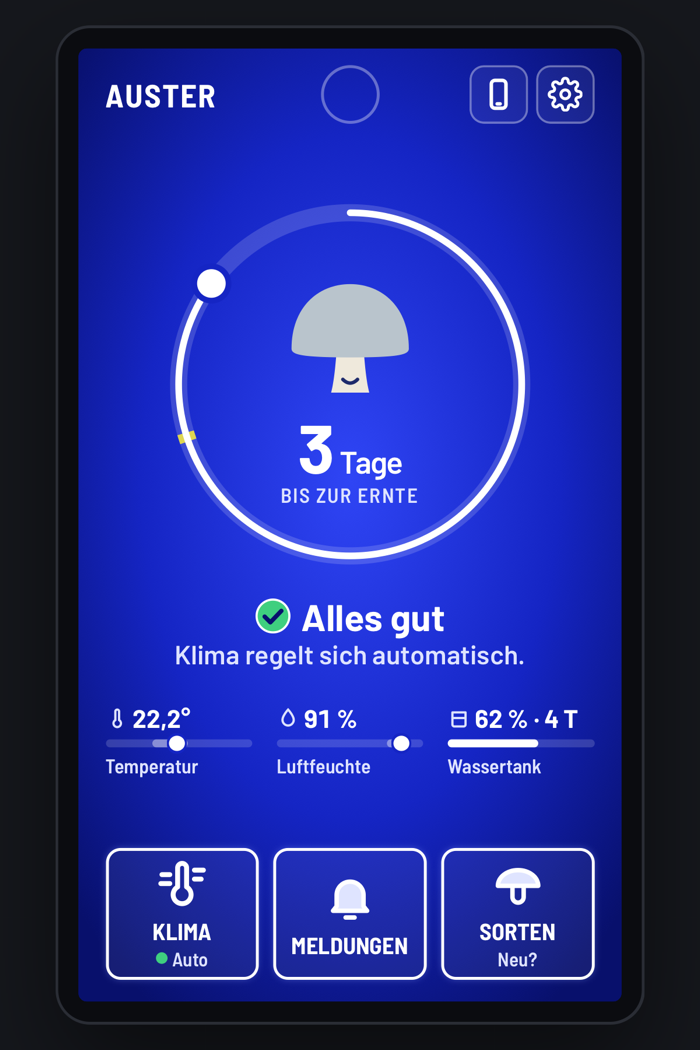
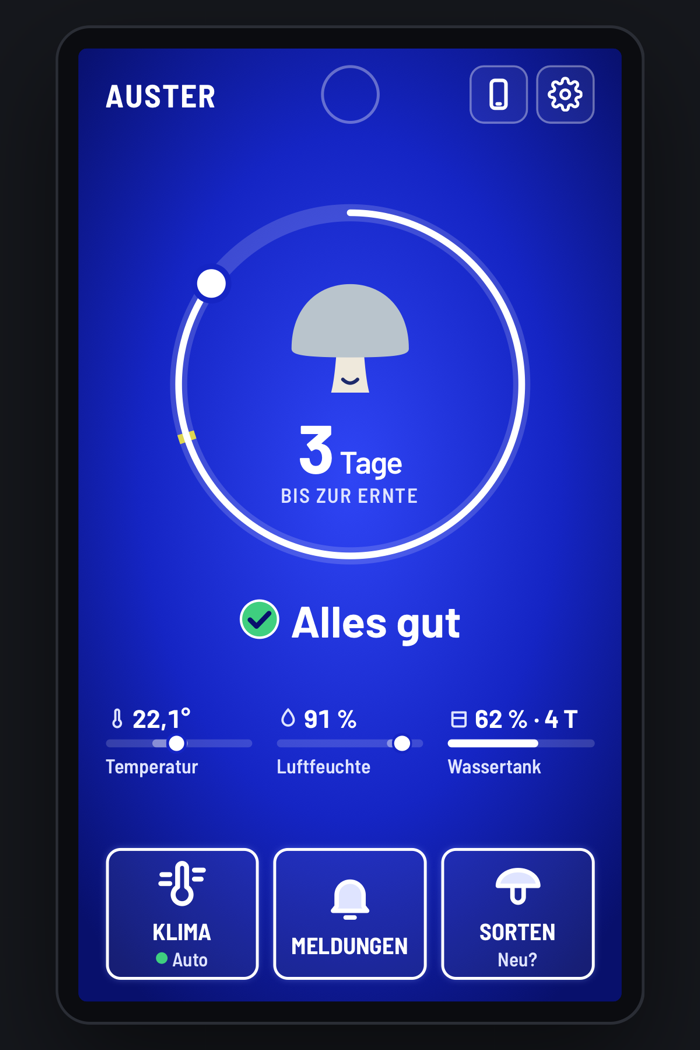
feat: Admin als drei Balken, größere Balken in Einstellungen/Admin, Hilfe mit roter Flagge, ohne Satz unter Alles gut und ohne Über diese Box

Changed region(s): [[0.24, 0.5486, 0.75, 0.64], [0.24, 0.6705, 0.27, 0.701]]

diff --git a/01-konzept/bedienfeld/index.html b/01-konzept/bedienfeld/index.html
@@ -113,6 +113,15 @@ button{font:inherit;color:inherit;cursor:pointer;-webkit-tap-highlight-color:tra
 .alert.warn .a{color:var(--ink)}
 .alert .a b{color:var(--ink)}
 .alert .a.big{font-size:5.4cqw}
+.alert:not(.warn) .t{font-size:8.4cqw}
+.alert:not(.warn) .t svg{width:8.6cqw;height:8.6cqw}
+/* Einstellungen und Admin: Balken ca. 1,5× so hoch, Schrift größer (Display wird mit dem Finger bedient) */
+.panel-settings .opt,.panel-admin .opt{min-height:19.5cqw;padding:3.6cqw 3.6cqw;font-size:5.6cqw;gap:3.2cqw}
+.panel-settings .opt svg,.panel-admin .opt svg{width:8cqw;height:8cqw}
+.panel-settings .opt small,.panel-admin .opt small{font-size:.85em}
+.panel-settings .bigbtn{min-height:16cqw;font-size:5.4cqw}
+/* Hilfe: rote Flagge, damit man sie sofort findet */
+.help-flag{color:#ff5a5a}
 @keyframes blink{50%{opacity:.4}}
 .act{width:100%;margin-top:2cqw;border:.7cqw solid var(--alarm);background:var(--alarm);color:#1a1000;border-radius:3cqw;min-height:14cqw;font-weight:700;font-size:5.4cqw;display:flex;align-items:center;justify-content:center;gap:2.4cqw}
 .act svg{width:6.4cqw;height:6.4cqw}
@@ -265,6 +274,7 @@ button{font:inherit;color:inherit;cursor:pointer;-webkit-tap-highlight-color:tra
   .humlbl{font-size:4.2cqw}
   .alert{margin-top:3cqw;min-height:20cqw}
   .alert .t{font-size:7.6cqw}
+  .alert:not(.warn) .t{font-size:9cqw}
   .alert .a{font-size:4.8cqw;max-width:84cqw}
   .mini{gap:5cqw;margin-top:3cqw}
   .sv{font-size:5.2cqw}
@@ -536,8 +546,8 @@ function render(){
   if(key!==lastAlert){lastAlert=key;const el=$("#alert");
     if(!S.power){el.className="alert";el.innerHTML=`<span class="t">Pausiert</span><span class="a">Versehentlich? WEITERLAUFEN drücken. Neu ansetzen fortsetzen: SORTEN.</span>`}
     else if(awayQuiet){el.className="alert";el.innerHTML=`<span class="t">${IC.away}Urlaub</span><span class="a">Box spart Wasser · Meldungen gehen aufs Handy</span>`}
-    else if(!top){el.className="alert";el.innerHTML=`<span class="t">${IC.ok}Alles gut</span><span class="a big">Klima regelt sich automatisch.</span>`}
-    else if(top.sev==="info"){el.className="alert";el.innerHTML=`<span class="t">${IC.ok}Alles gut</span><span class="a big">Klima regelt sich automatisch.</span>`}
+    else if(!top){el.className="alert";el.innerHTML=`<span class="t">${IC.ok}Alles gut</span>`}
+    else if(top.sev==="info"){el.className="alert";el.innerHTML=`<span class="t">${IC.ok}Alles gut</span>`}
     else{el.className="alert warn";el.innerHTML=`<span class="t">${IC.warn}${top.t}</span><span class="a">${top.a}</span>`}
   }
   // Pausiert: ein Tipp macht das Beenden rückgängig (Fehlertoleranz)
@@ -579,7 +589,7 @@ let open=null, panelKey="";
 function closePanel(){open=null;panelKey="";$("#panelHost").innerHTML=""}
 function panel(name,title,html,bind){
   open=name;
-  $("#panelHost").innerHTML=`<div class="panel" role="dialog" aria-label="${title}"><h2>${title}<button class="back" data-back>‹ Zurück</button></h2>${html}</div>`;
+  $("#panelHost").innerHTML=`<div class="panel panel-${name}" role="dialog" aria-label="${title}"><h2>${title}<button class="back" data-back>‹ Zurück</button></h2>${html}</div>`;
   const p=$("#panelHost .panel"); p.querySelector("[data-back]").onclick=closePanel; bind&&bind(p);
 }
 function alertPanel(refresh){
@@ -829,16 +839,13 @@ function simHarvest(){
 /* Admin-Modus für die Präsentation (2026-11-04): genau die zwei Fälle der Vorführung, dazu Zurücksetzen.
    Die übrigen Fehler, automatischen Vorführungen, Tag +1, Taster und Messwerte sind im Code noch da, aber nicht mehr erreichbar. */
 function demoPanel(){
-  panel("admin","Admin-Modus",`<p>Nur für die Vorführung, gehört nicht zur normalen Bedienung.</p>
-    <div class="lbl">1 · Tank leer</div>
-    <p>Display geht aus, nur der Warnpunkt leuchtet. Antippen zeigt die Meldung, AUFGEFÜLLT behebt sie.</p>
-    <div class="grid g2"><button class="opt" role="switch" data-f="tank" aria-checked="${demo.tank}">Wassertank leer</button></div>
-    <div class="lbl">2 · Pilze fertig</div>
-    <p>GEERNTET drücken, dann Kachel SORTEN → Neu ansetzen.</p>
-    <div class="grid g2"><button class="opt" role="switch" data-h aria-checked="${demo.harvest}">Ernte fertig</button></div>
-    <div class="lbl">Vor der Vorführung</div>
-    <div class="btnrow wrap" style="margin-top:0"><button class="bigbtn out" data-reset>Zurücksetzen</button></div>`,p=>{
-    p.style.overflowY="auto";
+  const RESET_IC='<svg viewBox="0 0 24 24" fill="none" stroke="currentColor" stroke-width="2.2" stroke-linecap="round" stroke-linejoin="round"><path d="M4 12a8 8 0 1 0 2.4-5.7"/><path d="M4 4v4.5h4.5"/></svg>';
+  const SHROOM_IC='<svg viewBox="0 0 24 24" fill="none" stroke="currentColor" stroke-width="2.2" stroke-linejoin="round"><path d="M3 12.5a9 7.5 0 0 1 18 0z"/><path d="M10 12.5V20h4v-7.5"/></svg>';
+  panel("admin","Admin-Modus",`<div class="list">
+      <button class="opt" data-f>${IC.warn}<div>Fehlermeldung<small>Wassertank leer</small></div></button>
+      <button class="opt" data-h>${SHROOM_IC}<div>Ernte fertig<small>Pilze reif, dann neue Sorte</small></div></button>
+      <button class="opt" data-reset>${RESET_IC}<div>Zurücksetzen<small>Start: 15 Tage bis zur Ernte</small></div></button>
+    </div>`,p=>{
     p.querySelector("[data-f]").onclick=()=>simFault("tank");
     p.querySelector("[data-h]").onclick=simHarvest;
     p.querySelector("[data-back]").onclick=settingsPanel;
@@ -849,13 +856,11 @@ function demoPanel(){
 function settingsPanel(){
   const sw=on=>`<span class="tag">${on?"an":"aus"}</span>`;
   panel("settings","Einstellungen",`<div class="list">
-      <button class="opt" data-set="link"><svg viewBox="0 0 24 24" fill="none" stroke="currentColor" stroke-width="2.2" stroke-linecap="round"><rect x="7" y="2.5" width="10" height="19" rx="2.5"/><path d="M11 18.5h2"/></svg><div>Handy verbinden ${sw(S.linked)}<small>Code ${S.code} · Meldungen aufs Handy</small></div></button>
+      <button class="opt" data-set="link"><svg viewBox="0 0 24 24" fill="none" stroke="currentColor" stroke-width="2.2" stroke-linecap="round"><rect x="7" y="2.5" width="10" height="19" rx="2.5"/><path d="M11 18.5h2"/></svg><div>Handy verbinden ${sw(S.linked)}<small>Meldungen aufs Handy</small></div></button>
       <button class="opt" data-set="away">${IC.away}<div>Urlaub ${sw(S.away)}<small>Box spart Wasser, Meldungen aufs Handy</small></div></button>
       <button class="opt" data-set="lang"><span class="flag" aria-hidden="true">🇩🇪</span><div>Sprache<small>Deutsch</small></div></button>
       <button class="opt" data-set="look"><span class="swatch ${S.theme==="hc"?"hc":"std"}" aria-hidden="true"></span><div>Darstellung<small>${S.theme==="hc"?"Hoher Kontrast":"Standard (Blau)"}</small></div></button>
-      <button class="opt" data-set="report"><svg viewBox="0 0 24 24" fill="none" stroke="currentColor" stroke-width="2.2" stroke-linecap="round" stroke-linejoin="round"><path d="M4 21V4h11l-1.5 4L15 12H4"/></svg><div>Fehler melden<small>Etwas funktioniert nicht?</small></div></button>
-      <div class="lbl">Über diese Box</div>
-      <p style="margin:0">Growbox 01 · ${esc(SPECIES[S.species].name)} · Prototyp v6</p>
+      <button class="opt" data-set="report"><svg class="help-flag" viewBox="0 0 24 24" fill="none" stroke="currentColor" stroke-width="2.2" stroke-linecap="round" stroke-linejoin="round"><path d="M4 21V4h11l-1.5 4L15 12H4"/></svg><div>Hilfe<small>Etwas funktioniert nicht?</small></div></button>
     </div>
     <button class="bigbtn out" data-set="admin">Admin-Modus</button>`,p=>{
     p.querySelector('[data-set="link"]').onclick=connectPanel;
@@ -885,11 +890,11 @@ function lookPanel(){
 /* Fehler melden: eine Kategorie antippen, fertig. Der Bericht geht mit dem nächsten Stand an die App. */
 function reportPanel(){
   const C=["Display","Taster oder Licht","Wasser oder Tank","Lüfter oder Nebler","Etwas anderes"];
-  panel("report","Fehler melden",`<p>Was funktioniert nicht? Einmal antippen genügt.</p>
+  panel("report","Hilfe",`<p>Was funktioniert nicht? Einmal antippen genügt.</p>
     <div class="list">${C.map(c=>`<button class="opt" data-cat="${c}"><div>${c}</div></button>`).join("")}</div>`,p=>{
     p.querySelectorAll("[data-cat]").forEach(b=>b.onclick=()=>{
       S.reports=(S.reports||[]).concat({at:Date.now(),cat:b.dataset.cat}).slice(-10);save();
-      panel("report","Fehler melden",`<div class="rec ok">${IC.ok}Danke, gemeldet</div>
+      panel("report","Hilfe",`<div class="rec ok">${IC.ok}Danke, gemeldet</div>
         <p>„${esc(b.dataset.cat)}“ · ${when(Date.now())}</p><p>${S.linked?"Die Meldung geht an die App. Dort siehst du, wie es weitergeht.":"Sobald ein Handy verbunden ist, geht die Meldung an die App."}</p>
         <button class="bigbtn" data-x>Fertig</button>`,q=>{q.querySelector("[data-x]").onclick=closePanel});
     });

diff --git a/BRIEF.md b/BRIEF.md
@@ -59,7 +59,7 @@ Von Felix bestätigt. Diese Tabelle ist der maßgebliche Stand; Überholtes wird
 | 7–8 | Hardware | **Raspberry Pi bleibt Steuerrechner; als Display dient ein fest eingebautes iPhone 13 mini** (statt Touch Display 2), das die Web-Oberfläche des Pi über WLAN zeigt; Dauerstrom per Kabel. **Echt:** Taster und LED. **Simuliert:** Feuchte und Temperatur (für die Vorführung umschaltbar). Lüfter, Vernebler und Sensor sind nicht Teil des Prototyps. |
 | – | **Leitidee** | **B „Radikal einfach“:** ein großer Zustand (Farbe + Symbol + ein Satz), darunter drei große Kacheln. Verworfen: A „Pilz-Begleiter“ (Charakter, Gamification), C „Physisch zuerst“ (Taster/Drehknopf/LED-Ring). |
 | 10 | Startbild | **Nur 2 Stufen:** „Alles gut“ (grüner Kreis mit Haken) oder **Warnung** (gelbes Warndreieck nach ISO 7010, schwarzer Rand und „!“). Immer Form + Farbe + Text. **Blinken nur beim Warnpunkt** oben (Handeln nötig, Folie 27); alles andere ruhig. Hinweise wie „Ernte prüfen“ laufen unter „Alles gut“. |
-| 10 | Bedienfeld (Box) | **Stand 2026-11-02 (v6):** `01-konzept/bedienfeld/index.html`, aufbauend auf dem Panel-Prototyp (https://claude.ai/artifact/EGmf5bvFTK16eYGfKWVkPE). Begründungen mit Folien: `04-final/entscheidungen-folien.md` und `01-konzept/folien-recherche.md`. **Grundsatz:** Das Display bleibt schlank, Erweitertes gehört in die App (eigene Sorten, 1 Min lüften/befeuchten, Analytics). **Kopfzeile:** eine Zeile, alles 44 pt hoch: links Sorte in Großbuchstaben (AUSTER …); Mitte **Warnpunkt** (dunkler Ring; leuchtet orange und **blinkt nur im Standby**, ohne „!“; wirkt wie ein Warnlicht, siehe Ruhemodus); rechts **Handy-Symbol** und **Zahnrad** als gleich große Knöpfe. Handy antippen → Code + Knopf **VERBUNDEN** → Symbol ausgeblendet (zurück: Einstellungen → Handy verbinden → Trennen; **nach dem Neuladen ist das Symbol wieder da**, für die Präsentation). Keine Uhr. **Mitte:** Ring = Fortschritt bis zur Ernte, in der Mitte Tage bis zur Ernte; darunter Status („Alles gut · Klima regelt sich automatisch.“ oder Warnung mit Handlung und einem großen Knopf). **Werte:** Temperatur · Luftfeuchte · Wassertank einheitlich (Zahl, Balken, Name); Tank als `62 % · 4 T` in gleicher Schrift (T = Tage, Vorlesetext „reicht ca. 4 Tage“). Werte außerhalb des Bereichs mit Warndreieck. **3 Kacheln:** **KLIMA** (klein „Auto“ mit ruhigem grünem Punkt) · **MELDUNGEN** (Zahl) · **SORTEN** (klein „Neu“). **Klima-Fenster:** Lüfter, Nebler, Heizung, Licht mit AUTO-Status, **ohne Eingriff**; Licht: Hinweis „per Taster unten ↓“ (Text, kein Touch-Knopf). **Meldungen:** Stand mit Datum/Uhrzeit, offene Meldungen mit Handlung und „seit“, **Verlauf behobener Meldungen grün mit Haken** („behoben · von – bis“). „Zu nass“/„Braucht Frischluft“ mit GESEHEN. **Sorten · Neu:** oben Stand des Durchgangs und Knopf **Neu ansetzen …** (Sorte wählen, aktuelle „wie bisher“ oben) → Hinweis, was verloren geht → **2 s gedrückt halten** → Kammer leeren → Zuchtset einsetzen, Tag 1. Darunter Sorten **ansehen** (Schwierigkeit, Dauer, Temperatur, Feuchte). **Notfall-Rückweg** „Zurück zu …“ 14 Tage. **Einstellungen (Zahnrad):** Handy verbinden · Urlaub · **Sprache** (Prototyp nur Deutsch, andere ausgegraut) · **Darstellung** (Standard Blau / **Hoher Kontrast** Schwarz) · **Fehler melden** (Kategorie antippen, geht an die App) · Über diese Box; ganz unten **Admin-Modus**. **Kein Ruhemodus als Einstellung** (2026-11-04, zu verwirrend für die Präsentation; Standby lässt sich nicht von Hand einschalten). **Standby** nur im Admin-Fall „Tank leer“: Display schwarz ohne Text, nur ein **oranger Punkt (ohne „!“) blinkt**; Antippen beendet den Standby, das Blinken geht aus, und die normale Ansicht zeigt die Meldung. In der normalen Ansicht blinkt kein Punkt, die Warnung steht als Text mit Warndreieck da. **Urlaub:** nur unter Einstellungen, oben „URLAUB ✕“. **Barrierefreiheit:** Kontrast Text ≥ 4,5 : 1 (Warntexte weiß, Nebentexte `#dfe4ff`), Touch-Ziele ≥ 44 pt, Schrift für 50–70 cm, Status nie nur über Farbe, Blinken langsam und bei „Bewegung reduzieren“ aus. Licht nur über Taster und App (Ausnahme bis 8/20 Uhr). Heizung simuliert, Kühlen nur Hinweis. **Admin-Modus (2026-11-04, für die Präsentation):** nur noch **genau zwei Fälle** plus **Zurücksetzen**: **1 · Tank leer** (Standby, siehe oben; AUFGEFÜLLT behebt es, danach bleibt das Display an) und **2 · Pilze fertig** (Ernte fertig → GEERNTET → SORTEN → Neu ansetzen). **Startzustand:** Austernpilz frisch angesetzt (Wachstumsphase), **15 Tage bis zur Ernte**, damit der Sprung zur Ernte sichtbar ist. Die übrigen Fehler, automatischen Vorführungen, Tag +1, Taster und Messwerte sind nicht mehr erreichbar (Code bleibt). Ältere Stände (v1–v5, Original) in `01-konzept/bedienfeld/verlauf/`. |
+| 10 | Bedienfeld (Box) | **Stand 2026-11-02 (v6):** `01-konzept/bedienfeld/index.html`, aufbauend auf dem Panel-Prototyp (https://claude.ai/artifact/EGmf5bvFTK16eYGfKWVkPE). Begründungen mit Folien: `04-final/entscheidungen-folien.md` und `01-konzept/folien-recherche.md`. **Grundsatz:** Das Display bleibt schlank, Erweitertes gehört in die App (eigene Sorten, 1 Min lüften/befeuchten, Analytics). **Kopfzeile:** eine Zeile, alles 44 pt hoch: links Sorte in Großbuchstaben (AUSTER …); Mitte **Warnpunkt** (dunkler Ring; leuchtet orange und **blinkt nur im Standby**, ohne „!“; wirkt wie ein Warnlicht, siehe Ruhemodus); rechts **Handy-Symbol** und **Zahnrad** als gleich große Knöpfe. Handy antippen → Code + Knopf **VERBUNDEN** → Symbol ausgeblendet (zurück: Einstellungen → Handy verbinden → Trennen; **nach dem Neuladen ist das Symbol wieder da**, für die Präsentation). Keine Uhr. **Mitte:** Ring = Fortschritt bis zur Ernte, in der Mitte Tage bis zur Ernte; darunter Status (nur „Alles gut“, etwas größer, ohne Satz darunter (2026-11-04), oder Warnung mit Handlung und einem großen Knopf). **Werte:** Temperatur · Luftfeuchte · Wassertank einheitlich (Zahl, Balken, Name); Tank als `62 % · 4 T` in gleicher Schrift (T = Tage, Vorlesetext „reicht ca. 4 Tage“). Werte außerhalb des Bereichs mit Warndreieck. **3 Kacheln:** **KLIMA** (klein „Auto“ mit ruhigem grünem Punkt) · **MELDUNGEN** (Zahl) · **SORTEN** (klein „Neu“). **Klima-Fenster:** Lüfter, Nebler, Heizung, Licht mit AUTO-Status, **ohne Eingriff**; Licht: Hinweis „per Taster unten ↓“ (Text, kein Touch-Knopf). **Meldungen:** Stand mit Datum/Uhrzeit, offene Meldungen mit Handlung und „seit“, **Verlauf behobener Meldungen grün mit Haken** („behoben · von – bis“). „Zu nass“/„Braucht Frischluft“ mit GESEHEN. **Sorten · Neu:** oben Stand des Durchgangs und Knopf **Neu ansetzen …** (Sorte wählen, aktuelle „wie bisher“ oben) → Hinweis, was verloren geht → **2 s gedrückt halten** → Kammer leeren → Zuchtset einsetzen, Tag 1. Darunter Sorten **ansehen** (Schwierigkeit, Dauer, Temperatur, Feuchte). **Notfall-Rückweg** „Zurück zu …“ 14 Tage. **Einstellungen (Zahnrad):** Handy verbinden · Urlaub · **Sprache** (Prototyp nur Deutsch, andere ausgegraut) · **Darstellung** (Standard Blau / **Hoher Kontrast** Schwarz) · **Hilfe** (rote Flagge, früher „Fehler melden“: Kategorie antippen, geht an die App); „Handy verbinden“ zeigt nur „Meldungen aufs Handy“ (Code erst nach Antippen); „Über diese Box“ entfällt. Balken in Einstellungen und Admin ca. 1,5× so hoch, Schrift größer (Fingerbedienung); ganz unten **Admin-Modus**. **Kein Ruhemodus als Einstellung** (2026-11-04, zu verwirrend für die Präsentation; Standby lässt sich nicht von Hand einschalten). **Standby** nur im Admin-Fall „Tank leer“: Display schwarz ohne Text, nur ein **oranger Punkt (ohne „!“) blinkt**; Antippen beendet den Standby, das Blinken geht aus, und die normale Ansicht zeigt die Meldung. In der normalen Ansicht blinkt kein Punkt, die Warnung steht als Text mit Warndreieck da. **Urlaub:** nur unter Einstellungen, oben „URLAUB ✕“. **Barrierefreiheit:** Kontrast Text ≥ 4,5 : 1 (Warntexte weiß, Nebentexte `#dfe4ff`), Touch-Ziele ≥ 44 pt, Schrift für 50–70 cm, Status nie nur über Farbe, Blinken langsam und bei „Bewegung reduzieren“ aus. Licht nur über Taster und App (Ausnahme bis 8/20 Uhr). Heizung simuliert, Kühlen nur Hinweis. **Admin-Modus (2026-11-04, für die Präsentation):** nur noch **genau zwei Fälle** plus **Zurücksetzen**: **1 · Tank leer** (Standby, siehe oben; AUFGEFÜLLT behebt es, danach bleibt das Display an) und **2 · Pilze fertig** (Ernte fertig → GEERNTET → SORTEN → Neu ansetzen). **Startzustand:** Austernpilz frisch angesetzt (Wachstumsphase), **15 Tage bis zur Ernte**, damit der Sprung zur Ernte sichtbar ist. Die übrigen Fehler, automatischen Vorführungen, Tag +1, Taster und Messwerte sind nicht mehr erreichbar (Code bleibt). Ältere Stände (v1–v5, Original) in `01-konzept/bedienfeld/verlauf/`. |
 | 9 | App-Aufbau | **Separate App:** einfache Startseite + 5 Unterseiten, eine davon **Advanced Analytics**. |
 | – | Booklet und Präsentation | **Story mit zwei Personen** (2026-11-02): **A** älterer Nutzer, der wenig bedient (Persona Ingrid, nur Box), und **B** Power-User, der die App als Zusatz nutzt. **Jede Entscheidung muss sich auf A oder B zurückführen lassen**, mit Folie und Erklärung: `04-final/entscheidungen-folien.md`. Dazu Ausschnitt Bauprozess mit Skizzen und 1–2 FreeCAD-Bildern. **Präsentation ca. 5 Minuten, ohne Folien** (2026-11-04): live 3D-Entwurf/Haptik (Teammitglied, ca. 1–1,5 Min.) → **Bedienfeld (Felix, 2 Min.)** → App (Anlin, ca. 1,5 Min.); Personas **ohne Altersangabe** (A Ingrid, B Power-User). Bedienfeld an Ingrid: Oberfläche kurz begründen, dann **Case 1 Tank leer** (haptische Aufgabe) → **Case 2 Pilze fertig, neue Sorte** → **Case 3 Handy verbinden** zuletzt als Übergang zur App. Spickzettel mit Stichpunkten in `04-final/praesentation.md`. Der Foliensatz https://claude.ai/artifact/DcLZePjqNpwgHBrxHGHFha wird nicht gezeigt. **Bedienfeld in der Box:** iPhone als Web-App vom Home-Bildschirm im Vollbild, Seite vom Mac (`01-konzept/bedienfeld/iphone-server.sh`), bis der Pi das übernimmt. **Für den 05.11. ist Vollbild wichtiger als App-Sync** (2026-11-04): Das iPhone in der Box läuft ohne Verbindung zur App; die Sync mit der App zeigt nur das Bedienfeld am Mac über den claude.ai-Link. **Booklet: 5 Seiten pro Person**; Felix: Box + Bedienfeld an Typ A (`04-final/booklet-felix.md`), abgestimmt mit den Teilen der anderen. Grundlage ist das eingefrorene Bedienfeld v6 in `04-final/bedienfeld-v6/`. |
 | – | Begriffe Box ↔ App | Gleiche Wörter, Symbole und Farben in Box und App: `01-konzept/begriffe-box-app.md` (für das App-Teammitglied). |

diff --git a/04-final/entscheidungen-folien.md b/04-final/entscheidungen-folien.md
@@ -36,7 +36,7 @@ Muss jeder es sofort sehen?                  ── ja ──► Box zeigt es, A
 | # | Entscheidung (Stand v6) | Für | Folie | Erklärung: Folie sagt … → deshalb … |
 |---|---|---|---|---|
 | E1 | Startbild hat nur **2 Zustände**: „Alles gut“ (grüner Kreis mit Haken) oder **Warnung** (gelbes Dreieck), immer **Form + Farbe + Text** | A | 26–27, 23 | Eine einzelne Farbe wird **präattentiv**, also ohne bewusstes Suchen, erkannt. Rot-Grün-Schwäche betrifft ca. 8 % der Männer. → Der Zustand ist über die Farbe sofort erkennbar und über Symbol und Wort trotzdem eindeutig (redundante Codierung). |
-| E2 | Pro Bildschirm **eine Hauptaussage**, darunter ein Satz („Klima regelt sich automatisch.“) | A | 16–17 | Model Human Processor: Wahrnehmen → Denken → Handeln. Jede zusätzliche Information verlängert den Denk-Schritt. → Ingrid weiß nach einem Blick, ob sie etwas tun muss. |
+| E2 | Pro Bildschirm **eine Hauptaussage** („Alles gut“, seit 04.11. ohne Satz darunter) | A | 16–17 | Model Human Processor: Wahrnehmen → Denken → Handeln. Jede zusätzliche Information verlängert den Denk-Schritt. → Ingrid weiß nach einem Blick, ob sie etwas tun muss. |
 | E3 | **3 große Kacheln** KLIMA · MELDUNGEN · SORTEN, jeweils großes Wort + kleine Zeile (Auto / Zahl / Neu); Ruhemodus und Urlaub unter dem Zahnrad | A | 8, 38, 50, 130 | Folie 8 „Die unbedienbare Mikrowelle“: wenige eindeutige Bedienelemente statt vieler Tasten. Das Kurzzeitgedächtnis ist begrenzt (38; eine konkrete Zahl steht nicht auf der Folie, dafür extern Cowan 2001: ca. 4). **Fitts' Law** (50): Große, nahe Ziele trifft man schneller und sicherer. Nielsen (130): *Aesthetic and minimalist design*. → Weniger und breitere Kacheln passen zu Ingrids zitternden Händen. Selten Genutztes (Ruhemodus) bekommt keinen Hauptplatz. |
 | E4 | **Größere Schrift**, Beschriftungen ohne Großbuchstaben | A | 63 | Schriftgröße muss zu Sichtabstand und Auflösung passen (hier ca. 50–70 cm, 5,4″-Display). → Beschriftungen ca. 15 px statt 11 px, damit sie auch mit Lesebrille lesbar sind. |
 | E5 | Klima-Punkt **leuchtet ruhig**; geblinkt wird **nur beim Warnpunkt** (E22) | A | 27, 45–47 | Folie 27 zählt **„Blinking“** zu den präattentiven Merkmalen: Blinken zieht die Aufmerksamkeit an sich, bevor man liest. Unnötige Reize sind **extrinsische kognitive Last** (47). → Für „läuft“ wäre Blinken falsch. Wir reservieren es für den einen Fall, in dem gehandelt werden muss. |
@@ -59,7 +59,7 @@ Muss jeder es sofort sehen?                  ── ja ──► Box zeigt es, A
 | E23 | **Kopfzeile als eine Zeile, alles 44 pt hoch**: Sorte · Warnpunkt · Handy + Zahnrad als gleich große Knöpfe mit Rahmen; **Uhr entfernt** | A | 50, 72–73, 130 | Fitts' Law (50): Größere Ziele trifft man leichter. Die Folien nennen keine Zahl, die Mindestgröße 44 pt stammt aus Apples Human Interface Guidelines (externe Quelle). Der Rahmen zeigt, dass es ein Knopf ist (Affordance, 72–73). Die Uhr war für die Pilzpflege überflüssig: *minimalist design* (130). |
 | E24 | **Handy-Symbol** rechts neben dem Zahnrad (Einrichtung gruppiert); nach VERBUNDEN ausgeblendet, über Einstellungen wieder erreichbar | A, B | 130, 41–42 | Einmaliger Einrichtungsschritt: Ist er erledigt, muss man ihn nicht mehr sehen (*minimalist design*, 130). Er bleibt über Einstellungen erreichbar und ist umkehrbar (*user control and freedom*, 130). |
 | E25 | **Blauer Hintergrund** nur als Fläche; Schrift weiß; Grün/Orange exklusiv für den Status, kein Rot | A, B | 20, 22, 23, 26, 76 | Blau wird über eigene S-Zapfen gesehen (22) und eignet sich nicht für feine Details (20, extern: wenige Blau-Zapfen in der Fovea), deshalb nur als Fläche. Ein ruhiger Grund lässt Statusfarben präattentiv herausspringen (26). Die Blau-Gelb-Achse bleibt bei Rot-Grün-Schwäche erhalten (23, eigene Simulation). Blau ist kulturell neutral (76). |
-| E26 | **Einstellungen** um **Sprache**, **Darstellung** (Standard / Hoher Kontrast) und **Fehler melden** ergänzt; gleiche Liste, gleich leicht zu finden | A, B | 75, 66, 130, 133 | Nicht verfügbare Sprachen sind **ausgegraut** statt scheinbar wählbar (logischer Constraint, 75). Hoher Kontrast (schwarz, alles weiß) für schwache Augen: Bildschirmkontrast (66), Sehkraft als Nutzermerkmal (133). Fehler melden mit einem Tippen: *help users recognize, diagnose, and recover from errors* (130). |
+| E26 | **Einstellungen** um **Sprache**, **Darstellung** (Standard / Hoher Kontrast) und **Hilfe** (früher „Fehler melden“, rote Flagge) ergänzt; gleiche Liste, gleich leicht zu finden | A, B | 75, 66, 130, 133 | Nicht verfügbare Sprachen sind **ausgegraut** statt scheinbar wählbar (logischer Constraint, 75). Hoher Kontrast (schwarz, alles weiß) für schwache Augen: Bildschirmkontrast (66), Sehkraft als Nutzermerkmal (133). Fehler melden mit einem Tippen: *help users recognize, diagnose, and recover from errors* (130). |
 | E27 | **Meldungs-Verlauf grün mit Haken** („behoben · von – bis“), offene Meldungen orange mit Dreieck | A | 59, 76, 26 | Behobenes sah vorher wie eine Warnung aus (gelbes Dreieck): Man konnte nicht bewerten, ob noch etwas zu tun ist (**Gulf of Evaluation**, 59). Grün mit Haken = erledigt ist kulturell gelernt (76) und präattentiv unterscheidbar (26). |
 | E28 | **SORTEN · Neu**: oben sichtbar „Neu ansetzen …“ (Sorte wählen, aktuelle zuerst), darunter Sorten ansehen | A, B | 130, 95, 61 | Das „Neu“ der Kachel muss man auch finden (*Visibility*, 130). Handeln (neu ansetzen) und Stöbern (Sorten ansehen) sind getrennt (Suchen vs. Stöbern, 95). Die Bestätigung mit 2 s Halten bleibt (Murphy, 61). |
 | E29 | **Lesbarkeit und Treffsicherheit überall**: Schrift in Meldungen/Listen ≥ 15 pt, alle Touch-Ziele ≥ 44 pt (auch „Zurück“), Ruhemodus-Text lesbar | A | 63, 50 | Sichtabstand (63) und Fitts (50) gelten nicht nur fürs Startbild, sondern für jede Ebene. Zahlen extern: Apple HIG 44 pt, WCAG 4,5 : 1. |
@@ -140,7 +140,7 @@ Analytische Selbstprüfung von Bedienfeld v6 und Box-Skizze v3 gegen die 10 Heur
 | Recognition rather than recall | Symbol + Wort auf jeder Kachel; Taster mit Licht-Symbol (E3, E30) | ✅ | – |
 | Flexibility and efficiency of use | Licht über Taster **oder** App; 1 Min lüften nur in der App (E7, E10) | ✅ | Kern der App |
 | Aesthetic and minimalist design | 3 Kacheln, keine Uhr, Handy-Symbol nach dem Koppeln weg (E3, E23, E24) | ✅ | – |
-| Help users recognize, diagnose, and recover from errors | Warnung nennt Handlung und Knopfwort; Fehler melden (E8, E26) | ✅ | – |
+| Help users recognize, diagnose, and recover from errors | Warnung nennt Handlung und Knopfwort; Hilfe (E8, E26) | ✅ | – |
 | **Help and documentation** | **fehlt**: keine Hilfe am Display, keine Anleitung an der Box | ❌ | – |
 
 **Offene Lücke Hilfe:** Vorschlag (noch nicht entschieden): kleine gedruckte Karte an der Box („Wasser · Licht · Ernte“ mit den drei Handgriffen) oder Eintrag „So geht’s“ unter dem Zahnrad. Die Karte passt besser zu Ingrid (ohne Menü, Folie 41–42 Vergessen), der Eintrag ist ohne Bau umsetzbar.

diff --git a/01-konzept/begriffe-box-app.md b/01-konzept/begriffe-box-app.md
@@ -10,7 +10,7 @@ Wenn die App einen Begriff anders braucht: bitte kurz absprechen und hier änder
 |---|---|---|
 | **Alles gut** | Nichts zu tun. Hinweise wie „Ernte prüfen“ laufen trotzdem darunter. | grüner Kreis mit Haken, Grün `#3fcf7f` |
 | **Warnung** (Titel der Meldung, z. B. „Wasser leer“) | Der Mensch muss etwas tun. | gelbes Warndreieck mit „!“ (ISO 7010); Orange `#e69f00` nur für Dreieck, Rahmen und Knopf, **Text weiß** (Kontrast) |
-| **Klima regelt sich automatisch.** | Satz unter „Alles gut“ | – |
+| ~~Klima regelt sich automatisch.~~ | entfällt (2026-11-04): unter „Alles gut“ steht kein Satz mehr | – |
 | **Pausiert** | Durchgang beendet, neues Zuchtset noch nicht drin | – |
 
 | **Warnpunkt** (Mitte der Kopfzeile) | blinkt langsam, nur wenn eine Warnung ansteht; aus der Ferne sichtbar | oranger Punkt mit „!“ und Leuchten, leuchtet auch allein auf dem dunklen Display (Ruhemodus); sonst dunkler Ring |
@@ -26,7 +26,7 @@ Nur **zwei Stufen**. Keine dritte Farbe (z. B. Rot) in der App einführen.
 | **Klima** (klein „Auto“, grüner Punkt leuchtet ruhig) | Klima | Lüfter, Nebler, Heizung, Licht mit Kennzeichen **AUTO** und „läuft gerade“ bzw. „nächstes Lüften in X Min“ |
 | **Meldungen** (Zahl = offene Meldungen) | Meldungen | offene Meldungen mit „seit“, Verlauf (Beginn, „behoben um“ / „erledigt um“) |
 | **Sorten** (klein „Neu“) | Sorten | Knopf „Neu ansetzen …“, Sorten ansehen, Notfall „Zurück zu …“ |
-| Zahnrad = **Einstellungen** (oben rechts) | Einstellungen | Handy verbinden, Ruhemodus, Urlaub, **Sprache**, **Darstellung** (Standard / Hoher Kontrast), **Fehler melden**, Über diese Box |
+| Zahnrad = **Einstellungen** (oben rechts) | Einstellungen | Handy verbinden, Urlaub, **Sprache**, **Darstellung** (Standard / Hoher Kontrast), **Hilfe** (rote Flagge, früher „Fehler melden“); Ruhemodus und „Über diese Box“ entfallen (2026-11-04) |
 | **Handy-Symbol** (oben rechts neben dem Zahnrad) | – | Code zum Verbinden, Knopf **VERBUNDEN**; danach ausgeblendet |
 | – | **Advanced Analytics** (nur App) | Verläufe, CO₂, Vergleiche |
 

diff --git a/04-final/praesentation.md b/04-final/praesentation.md
@@ -33,7 +33,7 @@ Die **drei Kacheln** (KLIMA · MELDUNGEN · SORTEN) und die **Einstellungen** be
 - *Kachel KLIMA:* Lüfter, Nebler, Heizung, Licht laufen auf **AUTO**. Ingrid sieht, *dass* geregelt wird, kann aber nichts verstellen. Licht nur über den echten Taster. *(Gulf of Evaluation · 59, Modusfehler · 60)* *Zurück.*
 
 ### 0:35 · Case 1: Tank leer + MELDUNGEN (40 s)
-*Zahnrad:* „Selten Gebrauchtes liegt hier: Urlaub, Sprache, Kontrast, Fehler melden. Ganz unten der Admin-Modus für die Vorführung.“ *Admin-Modus → **Wassertank leer***
+*Zahnrad:* „Selten Gebrauchtes liegt hier: Urlaub, Sprache, Kontrast und Hilfe mit der roten Flagge. Ganz unten der Admin-Modus für die Vorführung.“ *Admin-Modus → **Wassertank leer***
 - **Standby:** Display schwarz, kein Text, **nur ein oranger Punkt blinkt**. Blinken sieht man, bevor man liest, auch im Augenwinkel. *(präattentiv · 27)*
 - *Antippen* → Blinken aus, normale Ansicht mit **Problem + Handlung + Knopfwort**: „Tank auffüllen, dann AUFGEFÜLLT drücken.“ Kein Fachwort, keine Schuld. *(83–85)*
 - **Haptisch:** oben Wasser eingießen bis zur Linie im Sichtfenster; Sichtfenster = Balken auf dem Display. *(Mapping · 77–79)* *AUFGEFÜLLT* → sofort Rückmeldung. *(Feedback · 82)*
